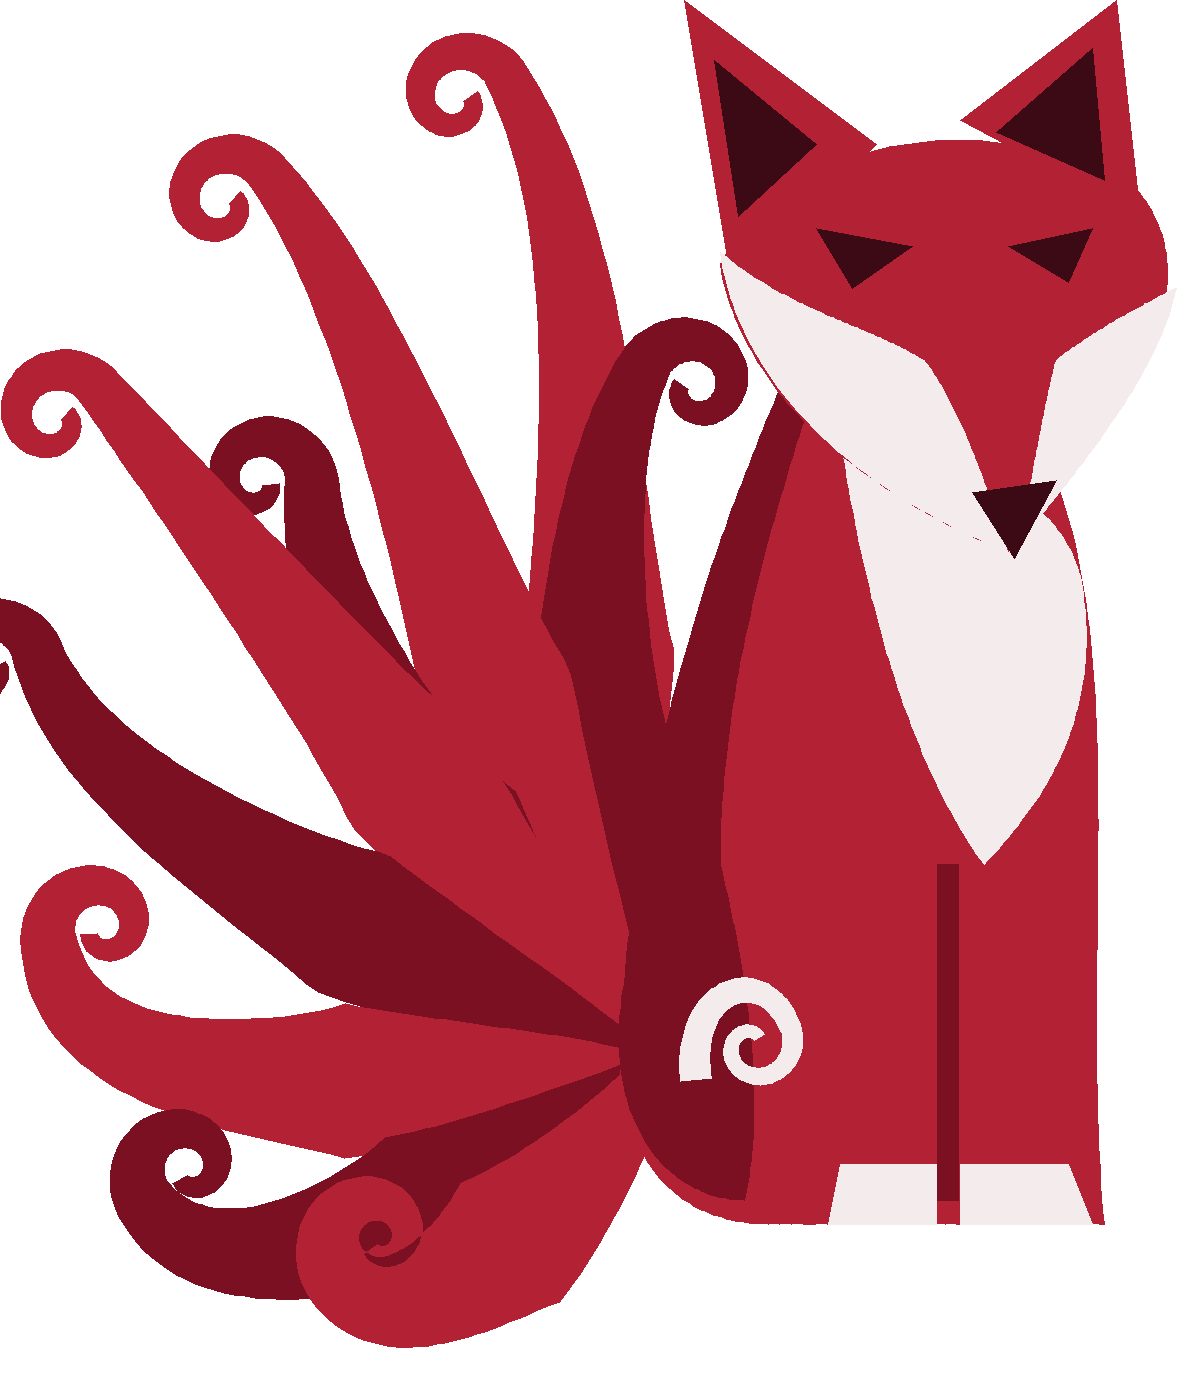
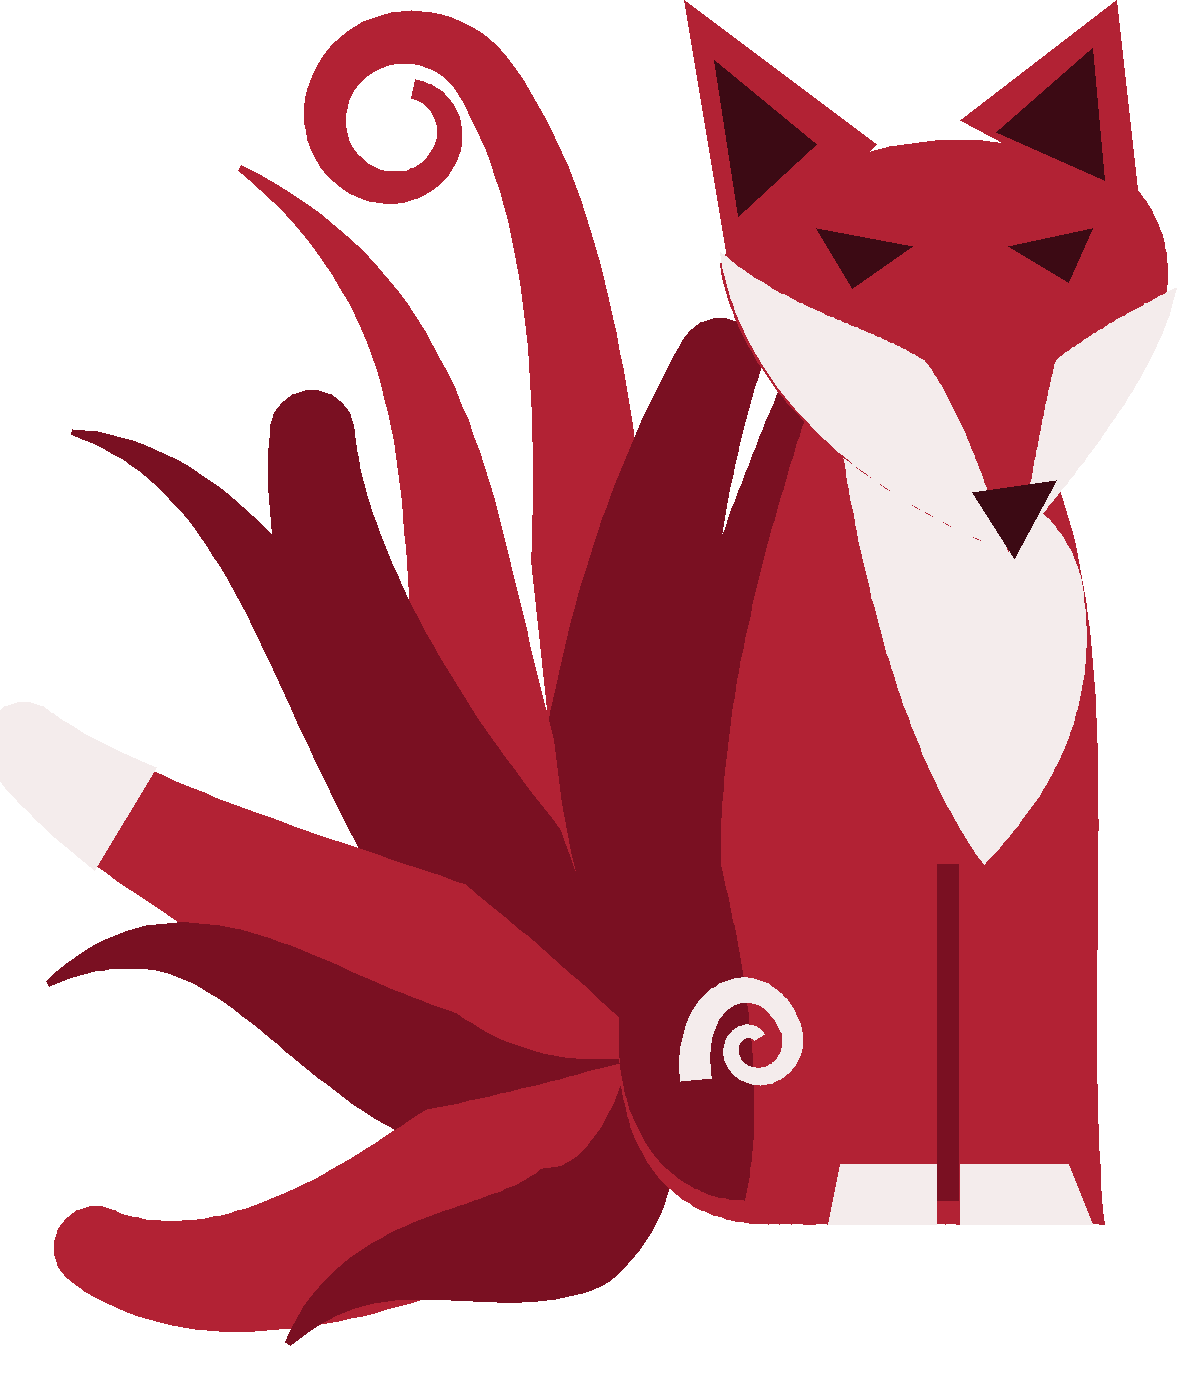
Branding: a smaller terminal fox with more varied tails
34x20 instead of 38x22, so the fox leaves more room for fastfetch's info.
The tails are no longer nine copies of one curl (the small tight curls read
as blobs at terminal size): some are bushy with rounded ends, two of those
white-tipped, some end in wide open swirls, and some are S-shaped flicks.

Changed region(s): [[0.0, 0.0, 0.6475, 0.9885], [0.4008, 0.3398, 0.4317, 0.3707]]

diff --git a/assets/branding/make-marks.py b/assets/branding/make-marks.py
@@ -26,27 +26,55 @@ SYSTEM = ROOT / "files" / "system"
 
 RED, DEEP, WHITE, INK = (178, 34, 52), (122, 16, 34), (244, 236, 236), (60, 10, 20)
 SCALE = 12            # canvas units -> pixels when rasterising
-# 38 columns gives 22 rows, so the fox (plus fastfetch's top padding) fits a
-# default 80x24 terminal; a taller logo scrolls and fastfetch draws over it.
-TERMINAL_COLUMNS = 38
+# 34 columns gives 20 rows: small enough to sit beside fastfetch's info in a
+# default 80x24 terminal (a logo taller than the window scrolls, and fastfetch
+# then draws the info over it).
+TERMINAL_COLUMNS = 34
 
 
 # --- The terminal fox -------------------------------------------------------
 
-def tail(c, start, c1, c2, end, side, col, w=13, r0=4.5):
-    c.poly(stroke(curl(bez(start, c1, c2, end), r0, turns=0.95, side=side), 4, 1.4, wmid=w, ease=0.7), col)
+# Tails come in three kinds, so the fan isn't nine copies of one shape. (Small
+# tight curls read as blobs with a hole at terminal size, so there are none.)
+#   bushy: full and soft, tapering to a point; some with a white tip
+#   swirl: slimmer, ending in a wide open spiral
+#   hook:  medium, ending in a loose half-curl
+TAILS = [  # (control 1, control 2, end, curl side, kind, colour)
+    ((46, 66), (54, 26), (40, 6), -1, "swirl", RED),
+    ((50, 72), (52, 48), (60, 30), 1, "bushy", DEEP),
+    ((30, 64), (48, 32), (20, 14), -1, "wave", RED),
+    ((40, 76), (26, 52), (26, 36), -1, "bushy", DEEP),
+    ((28, 70), (26, 40), (6, 36), -1, "wave", DEEP),
+    ((38, 80), (12, 72), (2, 62), 1, "bushy-white", RED),
+    ((30, 98), (22, 70), (4, 82), 1, "wave", DEEP),
+    ((44, 96), (22, 112), (8, 104), 1, "bushy", RED),
+    ((52, 112), (34, 98), (24, 112), 1, "wave", DEEP),
+]
+
+
+def tail(c, start, c1, c2, end, side, kind, col):
+    path = bez(start, c1, c2, end)
+    if kind.startswith("bushy"):
+        # full, with a soft rounded end rather than a point
+        c.poly(stroke(path, 4, 7, wmid=15, ease=1.0), col)
+        c.ellipse(end[0], end[1], 3.5, 3.5, col)
+        if kind.endswith("white"):  # the end white, like a fox's tail tip
+            n = len(path)
+            c.poly(stroke(path[int(n * 0.78):], 10, 7, ease=1.0), WHITE)
+            c.ellipse(end[0], end[1], 3.5, 3.5, WHITE)
+    elif kind == "swirl":
+        c.poly(stroke(curl(path, 8, turns=1.1, side=side, shrink=0.4), 4, 1.6, wmid=10, ease=0.8), col)
+    else:  # wave: an S-curve that tapers to a fine flick
+        c.poly(stroke(path, 4, 0.5, wmid=11, ease=1.2), col)
 
 
 def draw_fox(c, face=True):
-    """Sitting, turned toward the viewer, nine tails curling at the tips (after the
+    """Sitting, turned toward the viewer, nine tails fanned behind (after the
     painting). face=False leaves out the eyes and nose, which the terminal version
     places pixel by pixel so they stay crisp."""
     base = (54, 90)
-    tails = [((46, 66), (54, 26), (42, 6), -1), ((48, 66), (48, 40), (54, 30), 1), ((42, 66), (34, 28), (22, 14), -1),
-             ((40, 76), (26, 54), (26, 40), -1), ((40, 72), (18, 44), (8, 32), -1), ((38, 80), (8, 70), (3, 54), -1),
-             ((40, 88), (6, 96), (4, 78), 1), ((44, 96), (20, 112), (12, 100), 1), ((48, 100), (34, 114), (28, 106), 1)]
-    for k, (c1, c2, end, side) in enumerate(tails):
-        tail(c, base, c1, c2, end, side, RED if k % 2 == 0 else DEEP)
+    for c1, c2, end, side, kind, col in TAILS:
+        tail(c, base, c1, c2, end, side, kind, col)
     body = chain(bez((66, 30), (60, 44), (54, 60), (52, 82)), bez((52, 82), (50, 96), (56, 102), (64, 102)),
                  bez((64, 102), (74, 102), (84, 102), (92, 102)), bez((92, 102), (90, 80), (94, 56), (88, 40)),
                  bez((88, 40), (84, 34), (74, 30), (66, 30)))
@@ -81,7 +109,7 @@ def draw_fox(c, face=True):
 # all one dark colour (blending them in made the fox look startled).
 EYE = [(-1, -1), (0, 0), (1, 0)]
 NOSE = [(-1, 0), (0, 0)]
-TERMINAL_FEATURES = [((72.5, 21), False, EYE), ((87, 21), True, EYE), ((85, 44.5), False, NOSE)]
+TERMINAL_FEATURES = [((72.5, 21), False, EYE), ((87, 21), True, EYE), ((85, 42.5), False, NOSE)]
 
 
 def nearest(p):

diff --git a/docs/branding.md b/docs/branding.md
@@ -15,7 +15,7 @@ The name is **RedFoxOS** (as in the README and the wordmark); the short name is 
 | Login screen (GDM) | `/usr/share/pixmaps/fedora-gdm-logo.png` | Light lettering, since GDM's background is dark. |
 | Boot splash (Plymouth) | `/usr/share/plymouth/themes/spinner/watermark.png`, and `branding.sh` rebuilds the initramfs | The initramfs carries its own copy of the theme. Before this, RedFox's watermark was in `/usr` but the boot screen still showed Bazzite's. |
 | Terminal banner (MOTD) | `/usr/share/ublue-os/motd/template.md`, `tips/20-redfox.md` | Bazzite's tips (gaming, Bazzite docs links) are removed at build. |
-| fastfetch | `/usr/share/ublue-os/bazzite/fastfetch.jsonc`, `logo.txt`, `/usr/libexec/bazzite-fetch-image` | A sitting nine-tailed fox in RedFox reds, drawn for the terminal (truecolour half blocks, 38×22 so it fits a default 80×24 terminal; see Artwork). The image line shows the image actually booted, e.g. `ghcr.io/snakeeyes021/redfox-os:unstable`. Keys still follow the GNOME accent colour. |
+| fastfetch | `/usr/share/ublue-os/bazzite/fastfetch.jsonc`, `logo.txt`, `/usr/libexec/bazzite-fetch-image` | A sitting nine-tailed fox in RedFox reds, drawn for the terminal (truecolour half blocks, 34×20 so it fits a default 80×24 terminal; see Artwork). The image line shows the image actually booted, e.g. `ghcr.io/snakeeyes021/redfox-os:unstable`. Keys still follow the GNOME accent colour. |
 | Symbolic icon | `/usr/share/icons/hicolor/scalable/apps/redfox-logo-symbolic.svg` | The swirl: three swirling tails with fox ears, one colour. ArcMenu's start button in the Windows layouts, and anything that asks for `redfox-logo-symbolic`. |
 | Starship | `/usr/share/redfox/starship.toml`, used when you have no `~/.config/starship.toml` | Turns on the `os` module with a 🦊. Starship isn't installed by default yet (see the roadmap). |
 | Fedora's logo files (`fedora-logo*.png`, `fedora_whitelogo*`, `system-logo-white.png`) | `files/system/usr/share/pixmaps` | Shown by the installer, initial setup and some About dialogs. |
@@ -45,7 +45,7 @@ Bazzite's `bazzite-rollback-helper` (also run by `bruh`) only knows Bazzite's im
 
 Two marks are drawn in code by `assets/branding/make-marks.py` (with `brush.py`), because the painting can't be shrunk that far:
 
-- **The terminal fox** (`assets/branding/terminal-fox.png`): a simplified version of the painted fox, sitting and turned toward the viewer, with nine tails curling at the tips. The terminal version places the eyes and nose pixel by pixel so they stay crisp. It needs a terminal with 24-bit colour (Ptyxis and other modern terminals); a bare text console shows it in approximate colours.
+- **The terminal fox** (`assets/branding/terminal-fox.png`): a simplified version of the painted fox, sitting and turned toward the viewer, with nine tails of three kinds: bushy (two with white tips), open swirls, and S-shaped flicks. The terminal version places the eyes and nose pixel by pixel so they stay crisp. It needs a terminal with 24-bit colour (Ptyxis and other modern terminals); a bare text console shows it in approximate colours.
 - **The swirl** (`assets/branding/swirl.png`): the symbolic mark for small, one-colour places. Fox heads drawn as geometric faces are common in logos; the swirling tails are what's RedFox's own.
 
 Everything else is made from the existing art by `assets/branding/make-images.py`: the nine-tailed fox (`assets/red_fox_labs_logo_2_semi-transparent.png`, white-filled so it reads on light and dark) and the "RedFoxOS" wordmark (`assets/branding/wordmark-source.png`, cut from `updatelogo.png`). For dark backgrounds the lettering is recoloured light; no new marks are drawn. Rerun the script after changing the source art.
